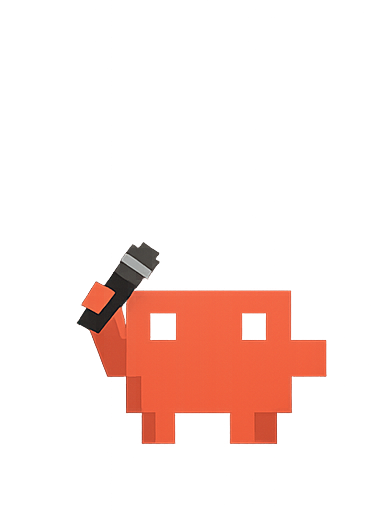
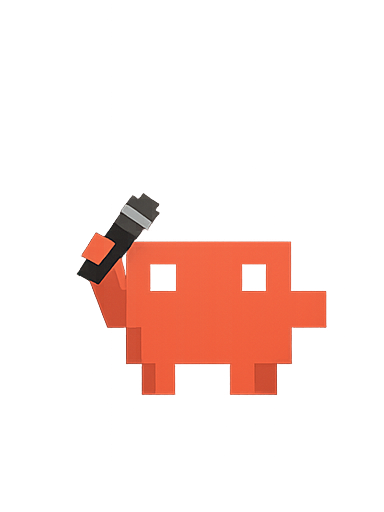
Fix choppy/jumping mascot animation: realign contact-sheet rows
Real bug, not visual noise: listening and transcribing (and organizing,
which reuses transcribing's frames) were each sliced from one contact sheet
by fixed-size cropping, but the character wasn't pixel-registered across the
sheet's two rows. Measuring each frame's content bounding box found a
consistent ~99px vertical offset between frames 1-4 and 5-8 for listening,
and ~20px for transcribing -- exactly what reads as the character jumping
between two positions every 4 frames during playback. paused's frames
measured pixel-identical across all 6, confirming this was a per-image
registration defect, not a systemic animation problem.

Fixed by measuring the exact per-row offset and re-compositing each row onto
a blank canvas shifted to cancel it out, so every frame in each sequence now
shares one consistent baseline. Verified live: listening no longer jumps.

Changed region(s): [[0.1875, 0.375, 0.875, 0.875]]

diff --git a/IMPLEMENTATION_STATUS.md b/IMPLEMENTATION_STATUS.md
@@ -533,6 +533,19 @@ placeholder despite `transcribing` and `listening` having real art, because no a
 been pointed at it. Wired it to the same supplied "processing" loop `transcribing` uses (one asset
 was authorized covering both processing stages), just held slightly longer per frame.
 
+**Second real bug: choppy, jumping animation.** `listening` and `transcribing` (and therefore
+`organizing`, which reuses `transcribing`'s frames) were supplied as one contact sheet each, sliced
+into individual frames by fixed-size cropping. The character was not pixel-registered to the same
+position across the sheet's two rows — measuring each frame's actual content bounding box showed a
+consistent ~99px vertical offset between frames 1-4 and frames 5-8 for `listening`, and a
+consistent ~20px offset for `transcribing`. That is exactly what reads as "jumps around" and "part
+of the frame goes to the other side" once frames are played back in a loop at speed: the character
+was really, measurably jumping between two vertical positions every 4 frames. `paused`'s frames, by
+contrast, measured pixel-identical bounding boxes across all 6 — it needed no fix, confirming this
+was a per-source-image registration problem, not a systemic animation bug. Fixed by measuring the
+per-row offset precisely and re-compositing each row onto a blank 384×512 canvas shifted to
+cancel it out, so all 8 frames of each sequence now share one consistent baseline.
+
 ## Next task
 
 All six milestones plan.md defines (§16, Milestones 0–6) are complete, and the golden path is now
